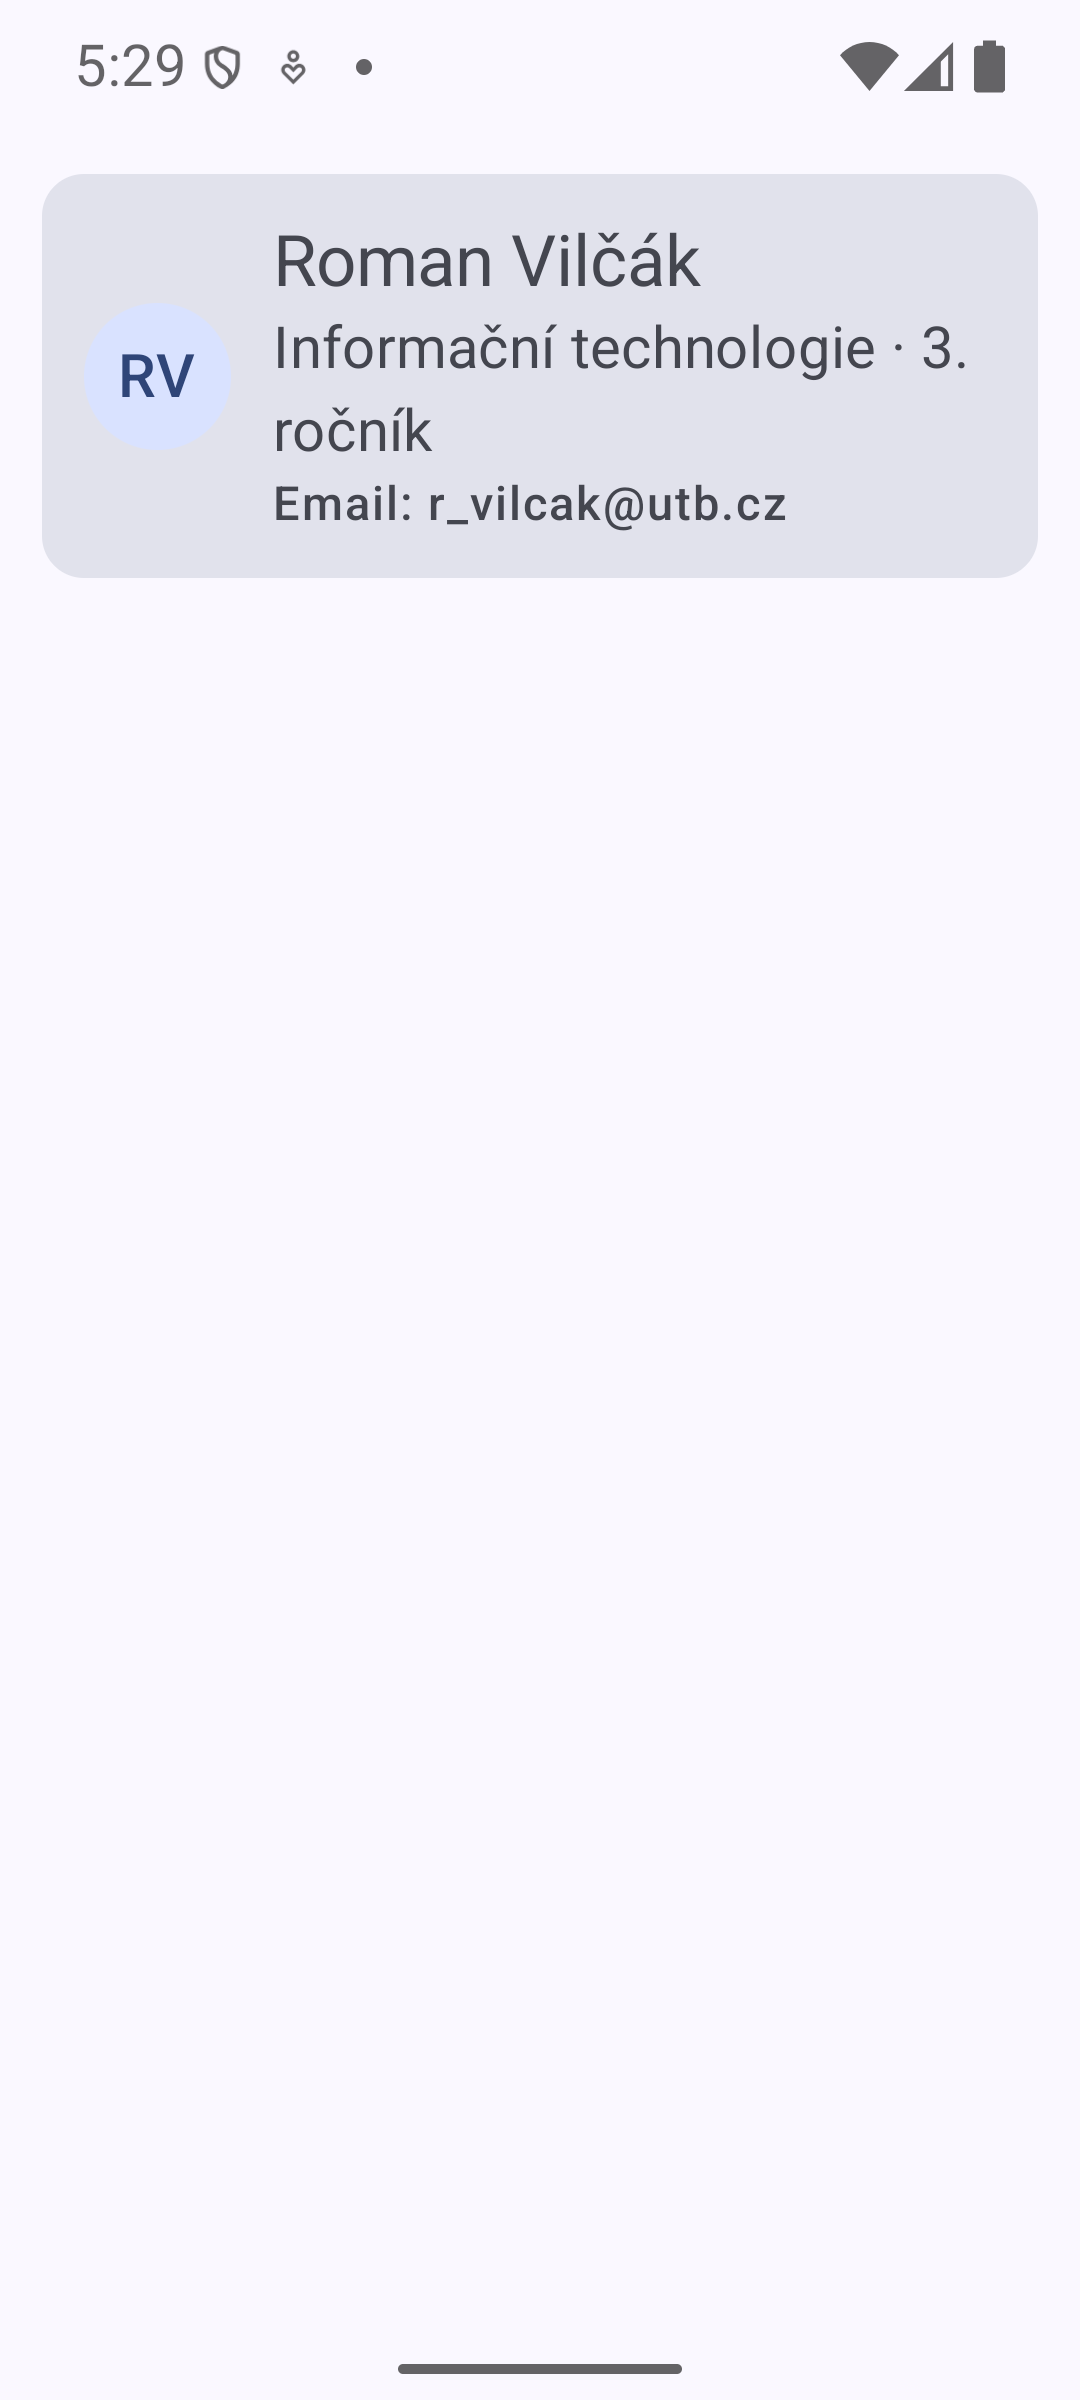
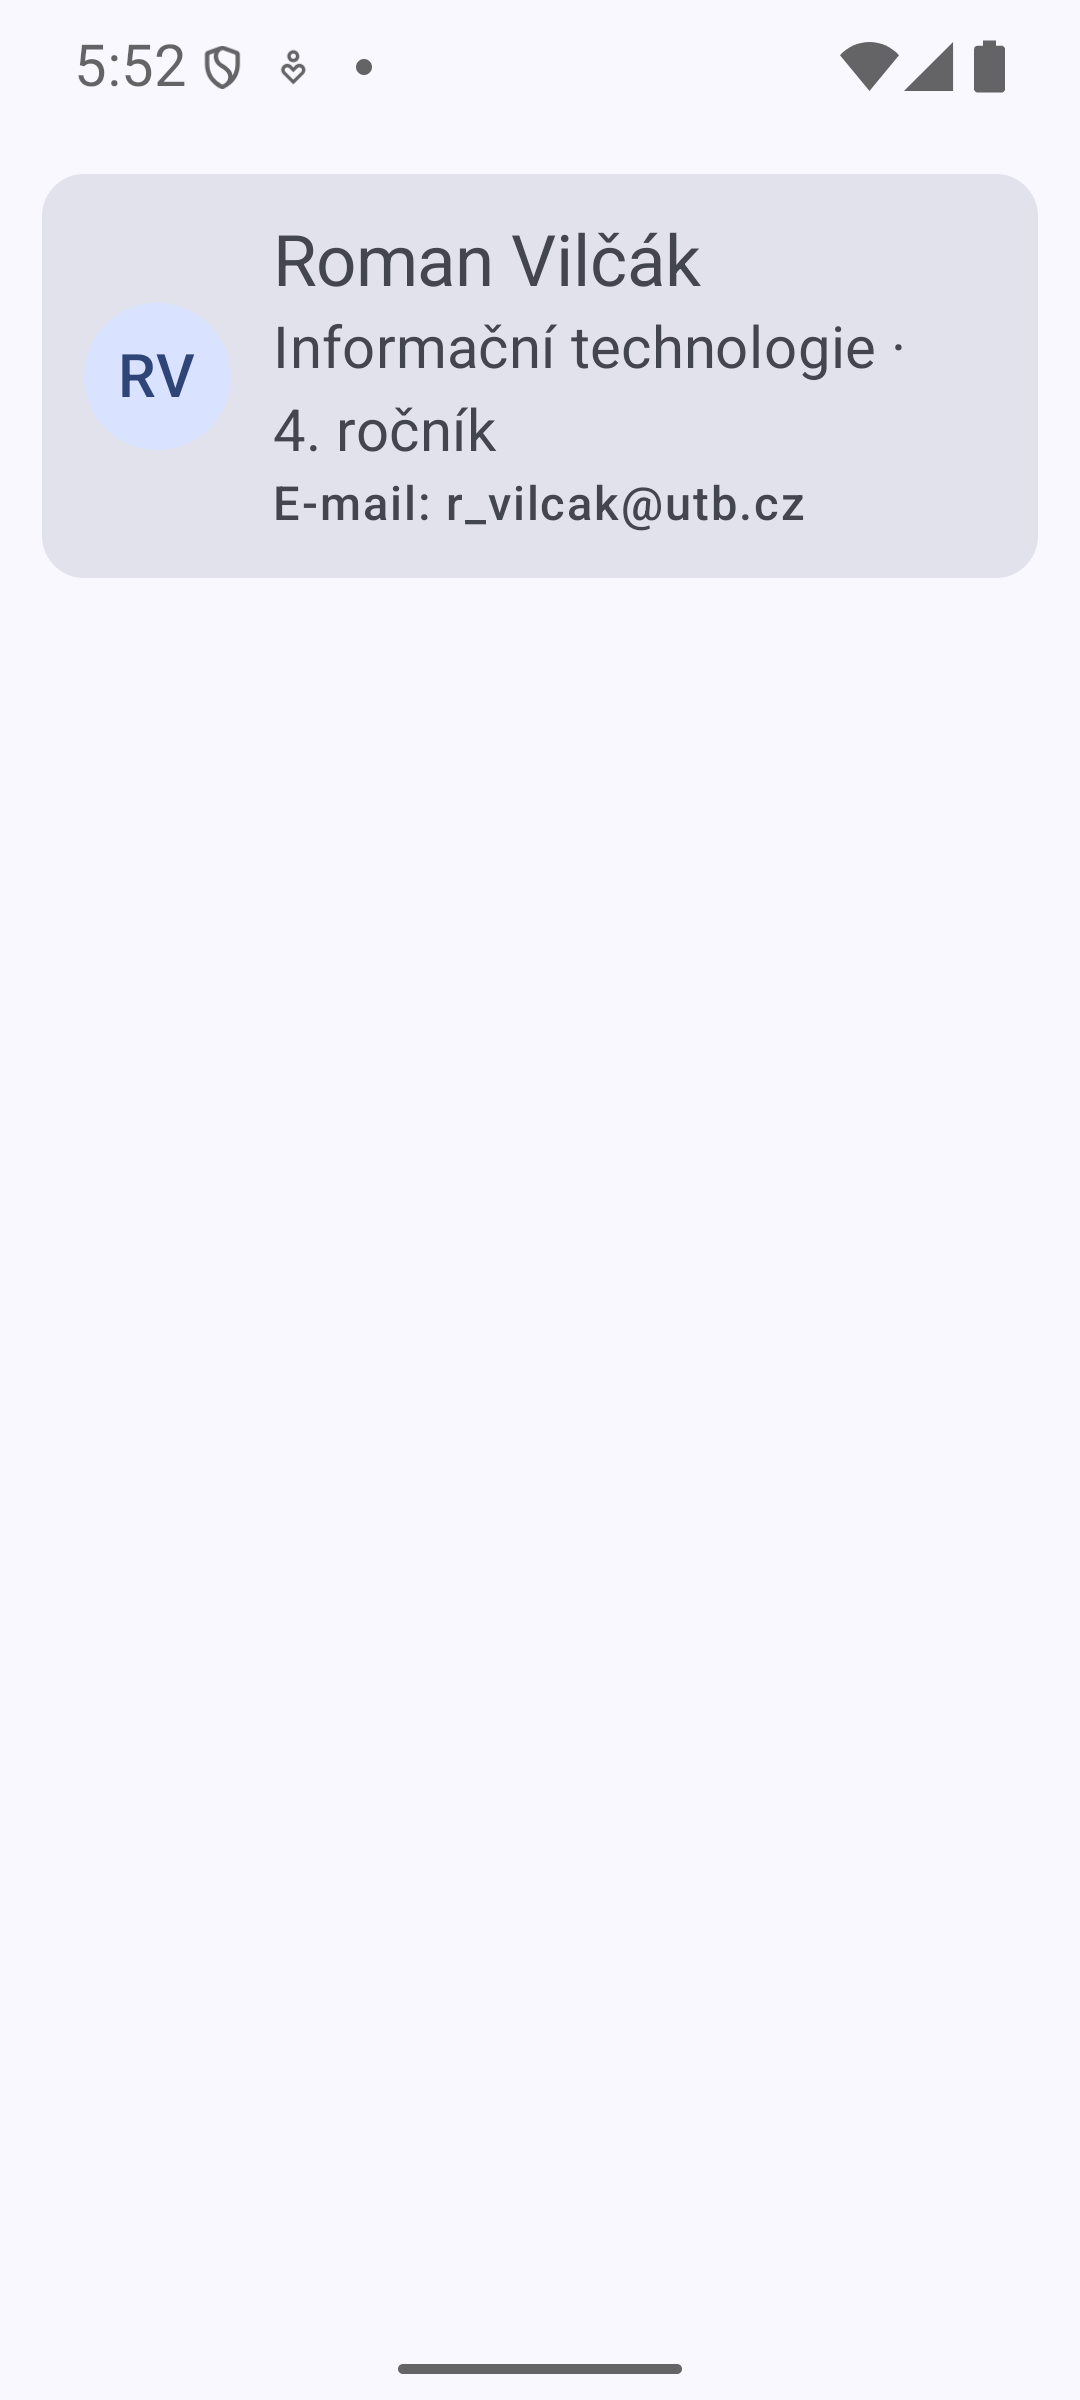
Lekce 07: odstraneni komentaru, vizitka 4. rocnik

Changed region(s): [[0.2444, 0.1562, 0.7333, 0.2188], [0.8556, 0.125, 0.8861, 0.1562], [0.1222, 0.0, 0.1528, 0.0312]]

diff --git a/app/src/main/java/cz/utb/meteodenik/ui/RozbityMestaSeznam.kt b/app/src/main/java/cz/utb/meteodenik/ui/RozbityMestaSeznam.kt
@@ -28,12 +28,9 @@ import androidx.compose.ui.res.stringResource
 import androidx.compose.ui.unit.dp
 import cz.utb.meteodenik.R
 
-// Cvičení 7.6 – opravená verze. Rozbor chyb: docs/lekce-07-debug.md
-
 @Composable
 fun RozbityMestaSeznam(modifier: Modifier = Modifier) {
 
-    // Oprava A: sledovaný stav místo obyčejné proměnné
     var novyNazev by rememberSaveable { mutableStateOf("") }
     var mesta by remember { mutableStateOf(listOf("Zlín", "Brno", "Ostrava", "Olomouc")) }
 
@@ -42,26 +39,24 @@ fun RozbityMestaSeznam(modifier: Modifier = Modifier) {
         OutlinedTextField(
             value = novyNazev,
             onValueChange = { novyNazev = it },
-            label = { Text(stringResource(R.string.mesto_pole_label)) },   // oprava D
+            label = { Text(stringResource(R.string.mesto_pole_label)) },
             singleLine = true,
             modifier = Modifier.fillMaxWidth()
         )
 
         Button(onClick = {
             val nazev = novyNazev.trim()
-            // Název je zároveň klíčem v LazyColumn (oprava C), dva stejné by aplikaci shodily.
             if (nazev.isNotEmpty() && mesta.none { it.equals(nazev, ignoreCase = true) }) {
                 mesta = mesta + nazev
                 novyNazev = ""
             }
         }) {
-            Text(stringResource(R.string.mesto_pridat))   // oprava D
+            Text(stringResource(R.string.mesto_pridat))
         }
 
         Text(
-            text = pluralStringResource(R.plurals.mesta_pocet, mesta.size, mesta.size),   // oprava D
+            text = pluralStringResource(R.plurals.mesta_pocet, mesta.size, mesta.size),
             style = MaterialTheme.typography.labelLarge,
-            // Oprava B: vnější okraj → barva → vnitřní odsazení; text uvnitř plošky „dýchá“
             modifier = Modifier
                 .padding(vertical = 8.dp)
                 .background(MaterialTheme.colorScheme.secondaryContainer, MaterialTheme.shapes.small)
@@ -69,7 +64,6 @@ fun RozbityMestaSeznam(modifier: Modifier = Modifier) {
         )
 
         LazyColumn(verticalArrangement = Arrangement.spacedBy(8.dp)) {
-            // Oprava C: klíč váže stav „rozbaleno“ na město, ne na pozici v seznamu
             items(items = mesta, key = { nazev -> nazev }) { nazev ->
                 var rozbaleno by remember { mutableStateOf(false) }
 
@@ -82,12 +76,12 @@ fun RozbityMestaSeznam(modifier: Modifier = Modifier) {
                         Row(verticalAlignment = Alignment.CenterVertically) {
                             Text(text = nazev, modifier = Modifier.weight(1f))
                             TextButton(onClick = { mesta = mesta - nazev }) {
-                                Text(stringResource(R.string.mesto_smazat))   // oprava D
+                                Text(stringResource(R.string.mesto_smazat))
                             }
                         }
                         if (rozbaleno) {
                             Text(
-                                text = stringResource(R.string.mesto_teplota_neznama),   // oprava D
+                                text = stringResource(R.string.mesto_teplota_neznama),
                                 style = MaterialTheme.typography.bodySmall
                             )
                         }

diff --git a/app/src/main/java/cz/utb/meteodenik/ui/MestaScreen.kt b/app/src/main/java/cz/utb/meteodenik/ui/MestaScreen.kt
@@ -50,12 +50,10 @@ import cz.utb.meteodenik.R
 import cz.utb.meteodenik.model.Mesto
 import cz.utb.meteodenik.ui.theme.MeteoDenikTheme
 
-// ---------- C: karta jednoho města ----------
-
 @Composable
 fun MestoKarta(
     mesto: Mesto,
-    onSmazat: () -> Unit,   // karta neví, jak se maže – jen ohlásí, že o to uživatel požádal
+    onSmazat: () -> Unit,
     modifier: Modifier = Modifier
 ) {
     Card(modifier = modifier.fillMaxWidth()) {
@@ -98,7 +96,6 @@ fun MestoKarta(
                 )
             }
 
-            // IconButton má cíl dotyku 48 dp; samotná Icon s clickable by ho neměla.
             IconButton(onClick = onSmazat) {
                 Icon(
                     painter = painterResource(R.drawable.ic_smazat),
@@ -123,8 +120,6 @@ private fun MestoKartaPreview() {
         MestoKarta(mesto = ukazkovaMesta.first(), onSmazat = {}, modifier = Modifier.padding(16.dp))
     }
 }
-
-// ---------- D: řádek pro přidání města (bez stavu) ----------
 
 @Composable
 fun PridatMestoRadek(
@@ -175,8 +170,6 @@ private fun PridatMestoRadekPreview() {
     }
 }
 
-// ---------- E: seznam s LazyColumn a prázdný stav ----------
-
 @Composable
 fun MestaSeznam(
     mesta: List<Mesto>,
@@ -200,14 +193,11 @@ fun MestaSeznam(
                 items = mesta,
                 key = { mesto -> mesto.id }
             ) { mesto ->
-                // id doplní až seznam – karta zná jen „smaž mě“
                 MestoKarta(mesto = mesto, onSmazat = { onSmazatMesto(mesto.id) })
             }
         }
     }
 }
-
-// ---------- F: složení obrazovky ----------
 
 @OptIn(ExperimentalMaterial3Api::class)   // TopAppBar je v Material 3 stále experimentální
 @Composable
@@ -269,12 +259,11 @@ fun MestaObrazovka(modifier: Modifier = Modifier) {
         jeDuplikat = jeDuplikat,
         onNovyNazevChange = {
             novyNazev = it
-            jeDuplikat = false   // chyba platí jen pro text, který ji způsobil
+            jeDuplikat = false
         },
         onPridatMesto = {
             val nazev = novyNazev.trim()
             if (nazev.isNotEmpty()) {
-                // „ brno “ i „BRNO“ jsou totéž město jako „Brno“
                 if (mesta.any { it.nazev.trim().equals(nazev, ignoreCase = true) }) {
                     jeDuplikat = true
                 } else {
@@ -288,7 +277,7 @@ fun MestaObrazovka(modifier: Modifier = Modifier) {
             }
         },
         onSmazatMesto = { id ->
-            mesta = mesta.filterNot { it.id == id }   // opět nový seznam, ne remove()
+            mesta = mesta.filterNot { it.id == id }
         },
         modifier = modifier
     )

diff --git a/app/src/main/java/cz/utb/meteodenik/ui/VizitkaKarta.kt b/app/src/main/java/cz/utb/meteodenik/ui/VizitkaKarta.kt
@@ -65,7 +65,6 @@ fun VizitkaKarta(
 
             Spacer(modifier = Modifier.width(16.dp))
 
-            // weight(1f): sloupec zabere zbytek řádku a dlouhý text se zlomí uvnitř karty
             Column(modifier = Modifier.weight(1f)) {
                 Text(
                     text = jmeno,
@@ -90,7 +89,6 @@ fun VizitkaKarta(
     }
 }
 
-/** „Roman Vilčák“ → „RV“; nejvýš dvě písmena. */
 private fun inicialy(jmeno: String): String =
     jmeno.split(" ")
         .filter { it.isNotBlank() }
@@ -105,7 +103,7 @@ private fun VizitkaKartaPreview() {
     MeteoDenikTheme {
         VizitkaKarta(
             jmeno = "Roman Vilčák",
-            obor = "Informační technologie · 3. ročník",   // nezlomitelná mezera: „3.“ a „ročník“ zůstanou na jednom řádku
+            obor = "Informační technologie · 4. ročník",
             email = "r_vilcak@utb.cz",
             modifier = Modifier.padding(16.dp)
         )
